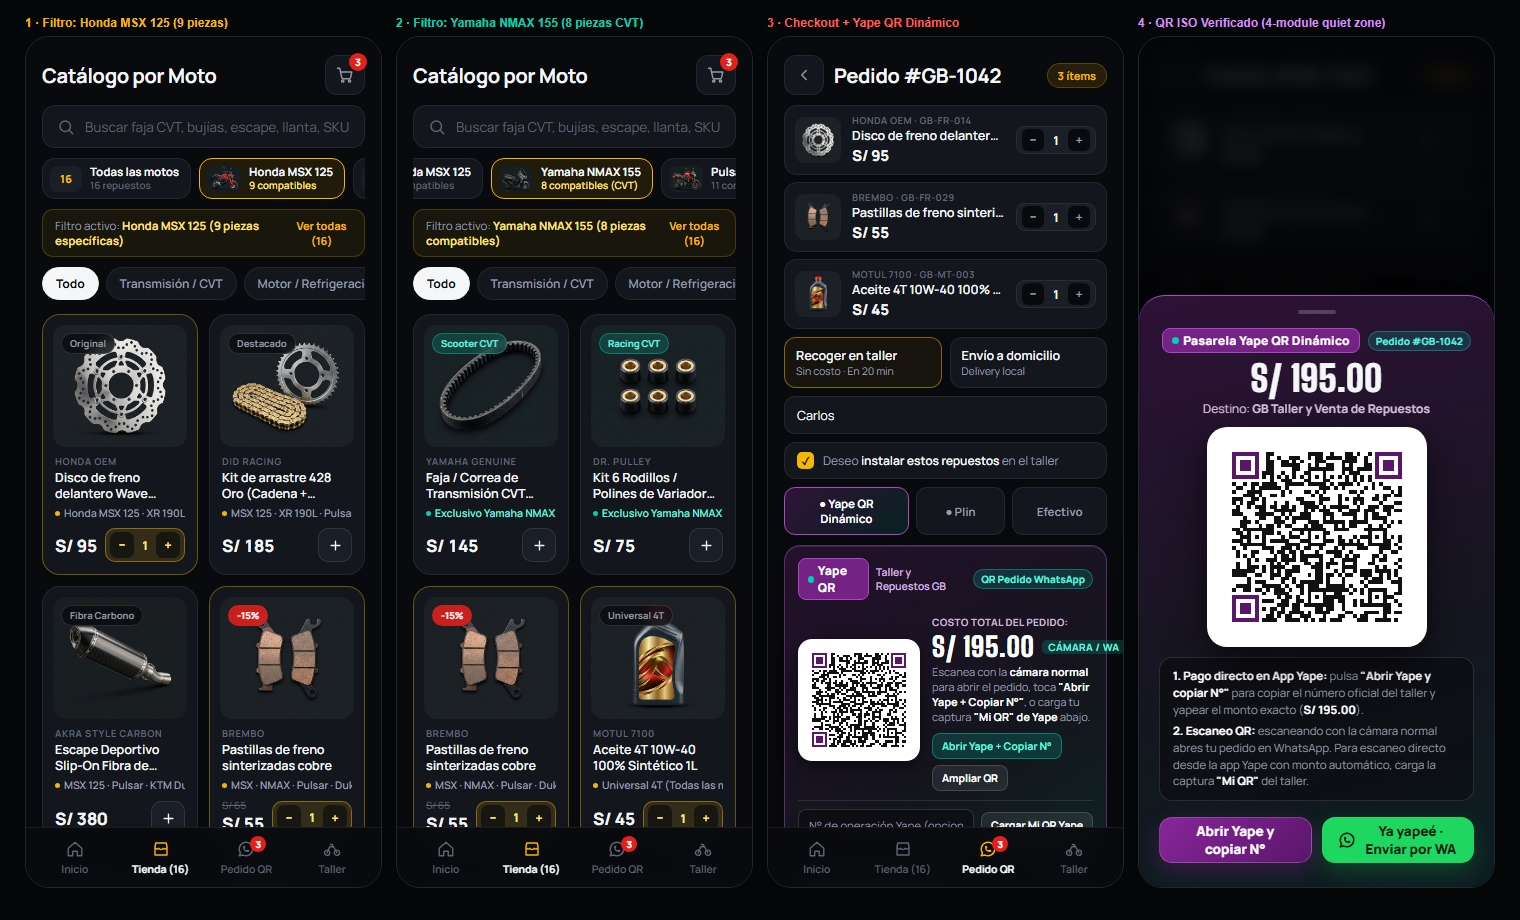
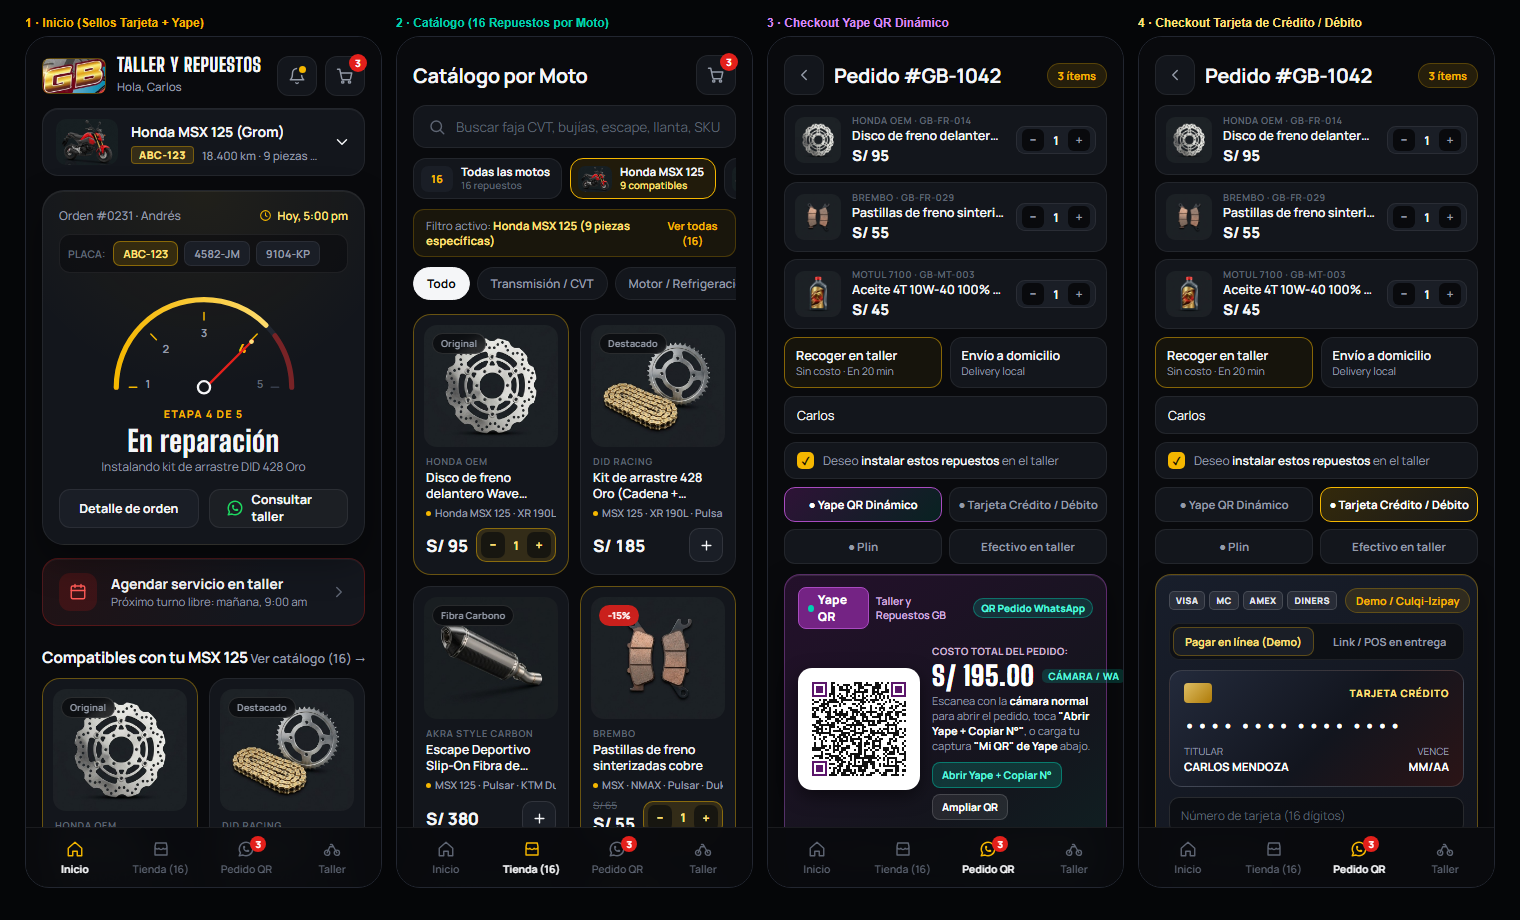
feat(card-payment): agregar pasarela de pago con tarjeta de credito y debito (Visa/MC/Amex/Diners)

diff --git a/index.html b/index.html
@@ -358,14 +358,69 @@ svg.i{width:18px;height:18px;stroke:currentColor;fill:none;stroke-width:1.9;stro
 .install-chk b{color:var(--texto);font-weight:600}
 .install-chk i.box{width:17px;height:17px;border-radius:5px;background:var(--oro);color:#1a1300;display:grid;place-items:center;font-weight:900;font-size:11px;font-style:normal;flex:none}
 
-.pay-methods{display:grid;grid-template-columns:1.25fr .9fr .95fr;gap:7px;margin-top:8px}
+.pay-methods{display:grid;grid-template-columns:repeat(2,1fr);gap:7px;margin-top:8px}
 .pay-m{
-  padding:8px 8px;border-radius:11px;background:var(--pista);border:1px solid var(--linea);
+  padding:9px 8px;border-radius:11px;background:var(--pista);border:1px solid var(--linea);
   font-size:11.5px;font-weight:700;color:var(--texto-2);text-align:center;transition:all .15s;
 }
 .pay-m.on.yape-m{background:linear-gradient(135deg,rgba(116,35,132,.35),rgba(0,209,178,.12));border-color:#A94BC0;color:#fff}
+.pay-m.on.card-m{background:linear-gradient(135deg,rgba(245,183,0,.18),rgba(255,255,255,.06));border-color:var(--oro);color:#fff}
 .pay-m.on.plin-m{background:rgba(0,184,217,.18);border-color:var(--plin);color:#fff}
 .pay-m.on.cash-m{background:rgba(245,183,0,.14);border-color:var(--oro);color:var(--oro-claro)}
+
+/* ==========================================================================
+   PASARELA PAGO CON TARJETA DE CRÉDITO / DÉBITO (BLACK LABEL)
+   ========================================================================== */
+.card-gateway{
+  margin-top:10px;padding:13px;border-radius:16px;
+  background:linear-gradient(145deg,#181E2B 0%,#12151D 65%,#1C1612 100%);
+  border:1px solid rgba(245,183,0,.35);
+  box-shadow:0 12px 28px rgba(0,0,0,.45),inset 0 1px 0 rgba(255,255,255,.08);
+}
+.card-gw-h{display:flex;justify-content:space-between;align-items:center;gap:8px;margin-bottom:10px}
+.card-brands{display:flex;gap:4px;align-items:center}
+.cb-pill{
+  font-size:9px;font-weight:800;padding:2px 6px;border-radius:5px;
+  background:rgba(255,255,255,.08);border:1px solid rgba(255,255,255,.14);color:#e2e6ee;letter-spacing:.4px;
+}
+.card-mode-tabs{display:grid;grid-template-columns:1fr 1fr;gap:6px;padding:3px;border-radius:10px;background:rgba(9,10,13,.65);border:1px solid var(--linea);margin-bottom:10px}
+.card-mode-tabs button{padding:6px 6px;border-radius:8px;font-size:11px;font-weight:700;color:var(--texto-2)}
+.card-mode-tabs button.on{background:var(--pista-2);color:var(--oro-claro);border:1px solid rgba(245,183,0,.3)}
+
+.card-visual{
+  padding:12px 14px;border-radius:13px;margin-bottom:10px;
+  background:linear-gradient(135deg,#232A3B 0%,#12151E 55%,#2B1416 100%);
+  border:1px solid rgba(255,255,255,.14);position:relative;overflow:hidden;
+}
+.card-visual-top{display:flex;justify-content:space-between;align-items:center;font-size:10px;font-weight:800;color:var(--oro-claro);letter-spacing:.7px}
+.card-chip{width:28px;height:20px;border-radius:4px;background:linear-gradient(135deg,#FFD86B,#C88A00);opacity:.85}
+.card-num-disp{font-family:Manrope,monospace;font-size:15.5px;font-weight:800;letter-spacing:1.6px;margin:11px 0 8px;color:#fff}
+.card-visual-bot{display:flex;justify-content:space-between;font-size:10px;color:var(--texto-2);text-transform:uppercase}
+.card-visual-bot b{display:block;color:#fff;font-size:11.5px;margin-top:1px}
+
+.card-form{display:grid;grid-template-columns:1fr 1fr;gap:7px}
+.card-form .full{grid-column:1 / -1}
+.card-in{
+  height:37px;padding:0 11px;border-radius:10px;
+  background:rgba(9,10,13,.7);border:1px solid rgba(255,255,255,.12);
+  font-size:12px;color:#fff;outline:none;width:100%;
+}
+.card-in:focus{border-color:rgba(245,183,0,.55)}
+.card-in::placeholder{color:var(--texto-3)}
+.card-inst{display:flex;gap:6px;margin-top:8px}
+.card-inst button{
+  flex:1;height:31px;border-radius:8px;background:rgba(9,10,13,.6);border:1px solid var(--linea);
+  font-size:11px;font-weight:700;color:var(--texto-2);
+}
+.card-inst button.on{background:rgba(245,183,0,.15);border-color:var(--oro);color:var(--oro-claro)}
+.card-auth-row{margin-top:9px;display:flex;flex-direction:column;gap:6px}
+.card-err{font-size:11px;color:#ff6b68;font-weight:700;display:none}
+.card-ok-box{
+  padding:10px 12px;border-radius:11px;background:rgba(52,211,153,.1);border:1px solid rgba(52,211,153,.4);
+  font-size:11.5px;color:#a7f3d0;line-height:1.4;display:none;
+}
+.card-ok-box b{color:#fff}
+.card-note{font-size:10px;color:var(--texto-3);margin-top:6px;text-align:center;line-height:1.35}
 
 .yape-gateway{
   margin-top:10px;padding:12px 13px;border-radius:16px;
@@ -746,7 +801,8 @@ svg.i{width:18px;height:18px;stroke:currentColor;fill:none;stroke-width:1.9;stro
       </div>
       <div class="pay-badges">
         <span class="lbl-p">Pago inmediato con:</span>
-        <span class="p-chip" style="border-color:rgba(169,75,192,.45);color:#e4b5f2">Yape QR Dinámico</span>
+        <span class="p-chip" style="border-color:rgba(169,75,192,.45);color:#e4b5f2">Yape QR</span>
+        <span class="p-chip" style="border-color:rgba(245,183,0,.35);color:var(--oro-claro)">Tarjeta Visa/MC</span>
         <span class="p-chip">Plin</span>
         <span class="p-chip">Efectivo</span>
       </div>
@@ -851,9 +907,76 @@ svg.i{width:18px;height:18px;stroke:currentColor;fill:none;stroke-width:1.9;stro
 
       <div class="pay-methods">
         <button class="pay-m yape-m on" id="pmYape" onclick="setPayMethod('Yape QR')">● Yape QR Dinámico</button>
+        <button class="pay-m card-m" id="pmCard" onclick="setPayMethod('Tarjeta')">● Tarjeta Crédito / Débito</button>
         <button class="pay-m plin-m" id="pmPlin" onclick="setPayMethod('Plin')">● Plin</button>
-        <button class="pay-m cash-m" id="pmCash" onclick="setPayMethod('Efectivo en taller')">Efectivo</button>
+        <button class="pay-m cash-m" id="pmCash" onclick="setPayMethod('Efectivo en taller')">Efectivo en taller</button>
       </div>
+
+      <!-- PASARELA DE PAGO CON TARJETA DE CRÉDITO / DÉBITO -->
+      <section class="card-gateway" id="cardGatewayBox" style="display:none" aria-label="Pago con tarjeta de crédito o débito">
+        <div class="card-gw-h">
+          <div class="card-brands">
+            <span class="cb-pill">VISA</span>
+            <span class="cb-pill">MC</span>
+            <span class="cb-pill">AMEX</span>
+            <span class="cb-pill">DINERS</span>
+          </div>
+          <span class="pill" id="cardModeTag">Demo / Culqi-Izipay</span>
+        </div>
+
+        <div class="card-mode-tabs">
+          <button class="on" id="cmOnlineBtn" onclick="setCardSubMode('online')">Pagar en línea (Demo)</button>
+          <button id="cmPosBtn" onclick="setCardSubMode('pos')">Link / POS en entrega</button>
+        </div>
+
+        <div id="cardOnlinePane">
+          <div class="card-visual">
+            <div class="card-visual-top">
+              <span class="card-chip"></span>
+              <span id="cvBrand">TARJETA CRÉDITO</span>
+            </div>
+            <div class="card-num-disp" id="cvNumber">•••• •••• •••• ••••</div>
+            <div class="card-visual-bot">
+              <div>TITULAR<b id="cvHolder">CARLOS MENDOZA</b></div>
+              <div style="text-align:right">VENCE<b id="cvExp">MM/AA</b></div>
+            </div>
+          </div>
+
+          <div class="card-form">
+            <input class="card-in full" id="ccNum" type="text" inputmode="numeric" maxlength="19" placeholder="Número de tarjeta (16 dígitos)" oninput="onCardInput()">
+            <input class="card-in full" id="ccName" type="text" placeholder="Nombre en la tarjeta" value="Carlos Mendoza" oninput="onCardInput()">
+            <input class="card-in" id="ccExp" type="text" inputmode="numeric" maxlength="5" placeholder="MM/AA" oninput="onCardInput()">
+            <input class="card-in" id="ccCvv" type="password" inputmode="numeric" maxlength="4" placeholder="CVV" oninput="onCardInput()">
+          </div>
+
+          <div class="card-inst" id="cardInstBar">
+            <button class="on" onclick="setInstallments(1,this)">1 cuota</button>
+            <button onclick="setInstallments(3,this)">3 cuotas</button>
+            <button onclick="setInstallments(6,this)">6 cuotas</button>
+          </div>
+
+          <div class="card-auth-row">
+            <div class="card-err" id="cardErrMsg">Verifica el número de tarjeta, vencimiento y CVV.</div>
+            <button class="btn primary" style="height:42px;font-size:13px" id="cardPayBtn" onclick="authorizeCardDemo()">
+              Autorizar pago de <span id="cardPayBtnAmt">S/ 195.00</span>
+            </button>
+            <div class="card-ok-box" id="cardOkBox"></div>
+          </div>
+          <p class="card-note">Validación visual local (no guarda ni envía tu tarjeta completa o CVV). Listo para conectar API Key de Culqi, Izipay o Niubiz.</p>
+        </div>
+
+        <div id="cardPosPane" style="display:none">
+          <div class="card-ok-box" style="display:block;border-color:rgba(245,183,0,.35);background:rgba(245,183,0,.07);color:var(--texto-2)">
+            <b style="color:var(--oro-claro)">Cobro seguro vía Link Izipay / Culqi o POS inalámbrico:</b>
+            al enviar tu pedido por WhatsApp te mandamos el link oficial de pago con tarjeta o llevamos el POS al entregar/recoger tus repuestos.
+          </div>
+          <div class="card-inst" id="cardPosInstBar" style="margin-top:8px">
+            <button class="on" onclick="setInstallments(1,this)">1 cuota (Sin recargo)</button>
+            <button onclick="setInstallments(3,this)">3 cuotas</button>
+            <button onclick="setInstallments(6,this)">6 cuotas</button>
+          </div>
+        </div>
+      </section>
 
       <!-- PASARELA YAPE CON QR DINÁMICO REAL ISO/IEC 18004 ESCANEABLE -->
       <section class="yape-gateway" id="yapeGatewayBox" aria-label="Pasarela de pago Yape con QR dinámico">
@@ -1540,16 +1663,118 @@ function setDelivery(mode){
   renderCart();
 }
 
+let cardSubMode = 'online';
+let cardInstallments = 1;
+let cardBrand = 'TARJETA';
+let cardLast4 = '';
+let cardAuthRef = '';
+
+function luhnValid(digits){
+  if(digits.length < 13 || digits.length > 19) return false;
+  let sum = 0, alt = false;
+  for(let i = digits.length - 1; i >= 0; i--){
+    let n = parseInt(digits[i], 10);
+    if(alt){ n *= 2; if(n > 9) n -= 9; }
+    sum += n; alt = !alt;
+  }
+  return sum % 10 === 0;
+}
+
+function detectCardBrand(digits){
+  if(/^4/.test(digits)) return 'VISA';
+  if(/^(5[1-5]|2[2-7])/.test(digits)) return 'MASTERCARD';
+  if(/^3[47]/.test(digits)) return 'AMEX';
+  if(/^3(?:0[0-5]|[68])/.test(digits)) return 'DINERS';
+  return 'TARJETA CRÉDITO';
+}
+
+function onCardInput(){
+  const numEl = document.getElementById('ccNum');
+  const expEl = document.getElementById('ccExp');
+  const nameEl = document.getElementById('ccName');
+  if(!numEl) return;
+
+  const digits = numEl.value.replace(/\D/g, '').slice(0, 16);
+  numEl.value = digits.replace(/(\d{4})(?=\d)/g, '$1 ');
+  cardBrand = detectCardBrand(digits);
+
+  let exp = expEl.value.replace(/\D/g, '').slice(0, 4);
+  if(exp.length > 2) exp = exp.slice(0, 2) + '/' + exp.slice(2);
+  expEl.value = exp;
+
+  document.getElementById('cvBrand').textContent = cardBrand;
+  document.getElementById('cvNumber').textContent = digits
+    ? digits.padEnd(16, '•').replace(/(.{4})/g, '$1 ').trim()
+    : '•••• •••• •••• ••••';
+  document.getElementById('cvHolder').textContent = (nameEl.value || 'TITULAR').toUpperCase();
+  document.getElementById('cvExp').textContent = exp || 'MM/AA';
+  document.getElementById('cardErrMsg').style.display = 'none';
+
+  if(cardAuthRef){
+    cardAuthRef = '';
+    cardLast4 = '';
+    document.getElementById('cardOkBox').style.display = 'none';
+    renderCart();
+  }
+}
+
+function setCardSubMode(mode){
+  cardSubMode = mode;
+  document.getElementById('cmOnlineBtn').classList.toggle('on', mode === 'online');
+  document.getElementById('cmPosBtn').classList.toggle('on', mode === 'pos');
+  document.getElementById('cardOnlinePane').style.display = mode === 'online' ? 'block' : 'none';
+  document.getElementById('cardPosPane').style.display = mode === 'pos' ? 'block' : 'none';
+  renderCart();
+}
+
+function setInstallments(n, btn){
+  cardInstallments = n;
+  document.querySelectorAll('#cardInstBar button, #cardPosInstBar button').forEach(b => b.classList.remove('on'));
+  if(btn) btn.classList.add('on');
+  renderCart();
+}
+
+function authorizeCardDemo(){
+  const digits = (document.getElementById('ccNum').value || '').replace(/\D/g, '');
+  const exp = (document.getElementById('ccExp').value || '').trim();
+  const cvv = (document.getElementById('ccCvv').value || '').replace(/\D/g, '');
+  const errEl = document.getElementById('cardErrMsg');
+
+  const [mm, yy] = exp.split('/').map(x => parseInt(x, 10));
+  const expOk = exp.length === 5 && mm >= 1 && mm <= 12 && yy >= 26;
+  if(!luhnValid(digits) || !expOk || cvv.length < 3){
+    errEl.style.display = 'block';
+    return;
+  }
+  errEl.style.display = 'none';
+  cardLast4 = digits.slice(-4);
+  cardAuthRef = 'GB-' + Math.floor(1000 + Math.random() * 9000);
+  const okBox = document.getElementById('cardOkBox');
+  const amtTxt = document.getElementById('cardPayBtnAmt').textContent;
+  okBox.innerHTML = `✓ <b>Autorización demo aprobada (${cardBrand} •••• ${cardLast4})</b> · ${cardInstallments} cuota${cardInstallments>1?'s':''} · Monto ${amtTxt} · Ref: <b>#${cardAuthRef}</b>.<br><small>Envía tu pedido por WhatsApp para coordinar la entrega.</small>`;
+  okBox.style.display = 'block';
+  showCustomToast('✓ TARJETA VALIDADA (MODO DEMO)', `${cardBrand} •••• ${cardLast4} · Ref #${cardAuthRef}`);
+  renderCart();
+}
+
 function setPayMethod(m){
   payMethod = m;
   document.getElementById('pmYape').classList.toggle('on', m==='Yape QR');
+  document.getElementById('pmCard').classList.toggle('on', m==='Tarjeta');
   document.getElementById('pmPlin').classList.toggle('on', m==='Plin');
   document.getElementById('pmCash').classList.toggle('on', m.includes('Efectivo'));
   document.getElementById('yapeGatewayBox').style.display = (m==='Yape QR') ? 'block' : 'none';
+  document.getElementById('cardGatewayBox').style.display = (m==='Tarjeta') ? 'block' : 'none';
   document.getElementById('totPayLabel').textContent = `Total a pagar (${m})`;
-  document.getElementById('waSendBtnTxt').textContent = (m==='Yape QR')
-    ? 'Confirmar Yapeo y enviar pedido por WhatsApp'
-    : 'Enviar pedido por WhatsApp';
+  if(m === 'Yape QR'){
+    document.getElementById('waSendBtnTxt').textContent = 'Confirmar Yapeo y enviar pedido por WhatsApp';
+  } else if(m === 'Tarjeta'){
+    document.getElementById('waSendBtnTxt').textContent = (cardSubMode === 'online' && cardAuthRef)
+      ? 'Enviar pedido con pago confirmado por WhatsApp'
+      : 'Solicitar Link / POS de tarjeta por WhatsApp';
+  } else {
+    document.getElementById('waSendBtnTxt').textContent = 'Enviar pedido por WhatsApp';
+  }
   renderCart();
 }
 
@@ -1577,9 +1802,23 @@ function renderCart(){
   const opCode = (document.getElementById('yapeOpCode')?.value || '').trim();
 
   const lines = entries.map(x=>`• ${x.qty}x ${x.name} [${x.sku}] — ${fmt(x.price*x.qty)}`).join('\n');
-  const payLine = payMethod === 'Yape QR'
-    ? `Yape QR Dinámico por *${fmtDec(totalPrice)}*${opCode ? ` (Operación N° ${opCode})` : ' (Adjunto constancia de Yapeo)'}`
-    : payMethod;
+  let payLine = payMethod;
+  if(payMethod === 'Yape QR'){
+    payLine = `Yape QR Dinámico por *${fmtDec(totalPrice)}*${opCode ? ` (Operación N° ${opCode})` : ' (Adjunto constancia de Yapeo)'}`;
+  } else if(payMethod === 'Tarjeta'){
+    if(cardSubMode === 'online' && cardAuthRef){
+      payLine = `Tarjeta ${cardBrand} •••• ${cardLast4} (${cardInstallments} cuota${cardInstallments>1?'s':''}) · Ref Demo #${cardAuthRef}`;
+    } else {
+      payLine = `Tarjeta de Crédito/Débito (${cardSubMode === 'pos' ? 'Solicito Link de pago o POS al entregar' : 'Solicito Link de pago en línea'} · ${cardInstallments} cuota${cardInstallments>1?'s':''})`;
+    }
+  }
+  const cardBtnAmt = document.getElementById('cardPayBtnAmt');
+  if(cardBtnAmt) cardBtnAmt.textContent = fmtDec(totalPrice);
+  if(payMethod === 'Tarjeta'){
+    document.getElementById('waSendBtnTxt').textContent = (cardSubMode === 'online' && cardAuthRef)
+      ? 'Enviar pedido con pago confirmado por WhatsApp'
+      : 'Solicitar Link / POS de tarjeta por WhatsApp';
+  }
 
   const waText =
 `Hola *Taller y Repuestos GB*! Soy *${cName}*, envío mi pedido *#GB-1042*:
@@ -1698,6 +1937,7 @@ function checkHashTab(){
   if(h==='nmax'){ switchTab('tienda'); changeMoto('nmax'); }
   if(h==='pulsar'){ switchTab('tienda'); changeMoto('pulsar'); }
   if(h==='yape'){ switchTab('pedido'); openYapeModal(); }
+  if(h==='tarjeta'){ switchTab('pedido'); setPayMethod('Tarjeta'); }
 }
 checkHashTab();
 window.addEventListener('hashchange', checkHashTab);
